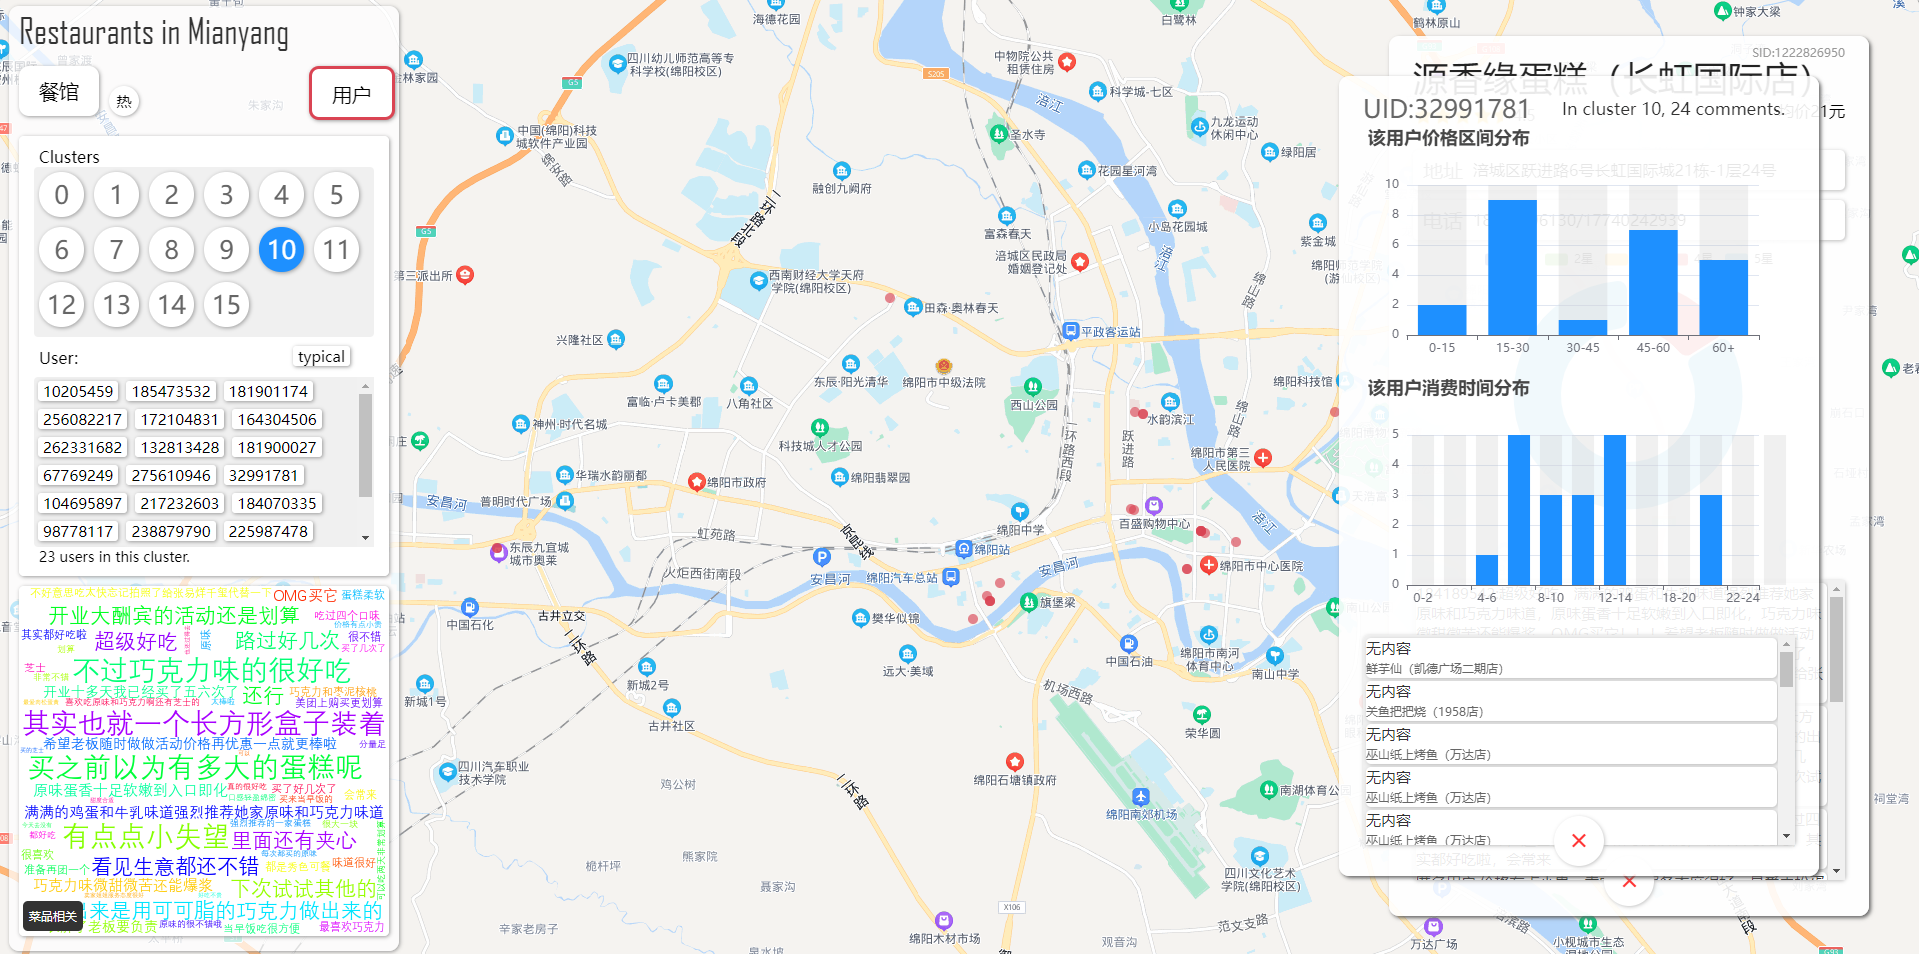
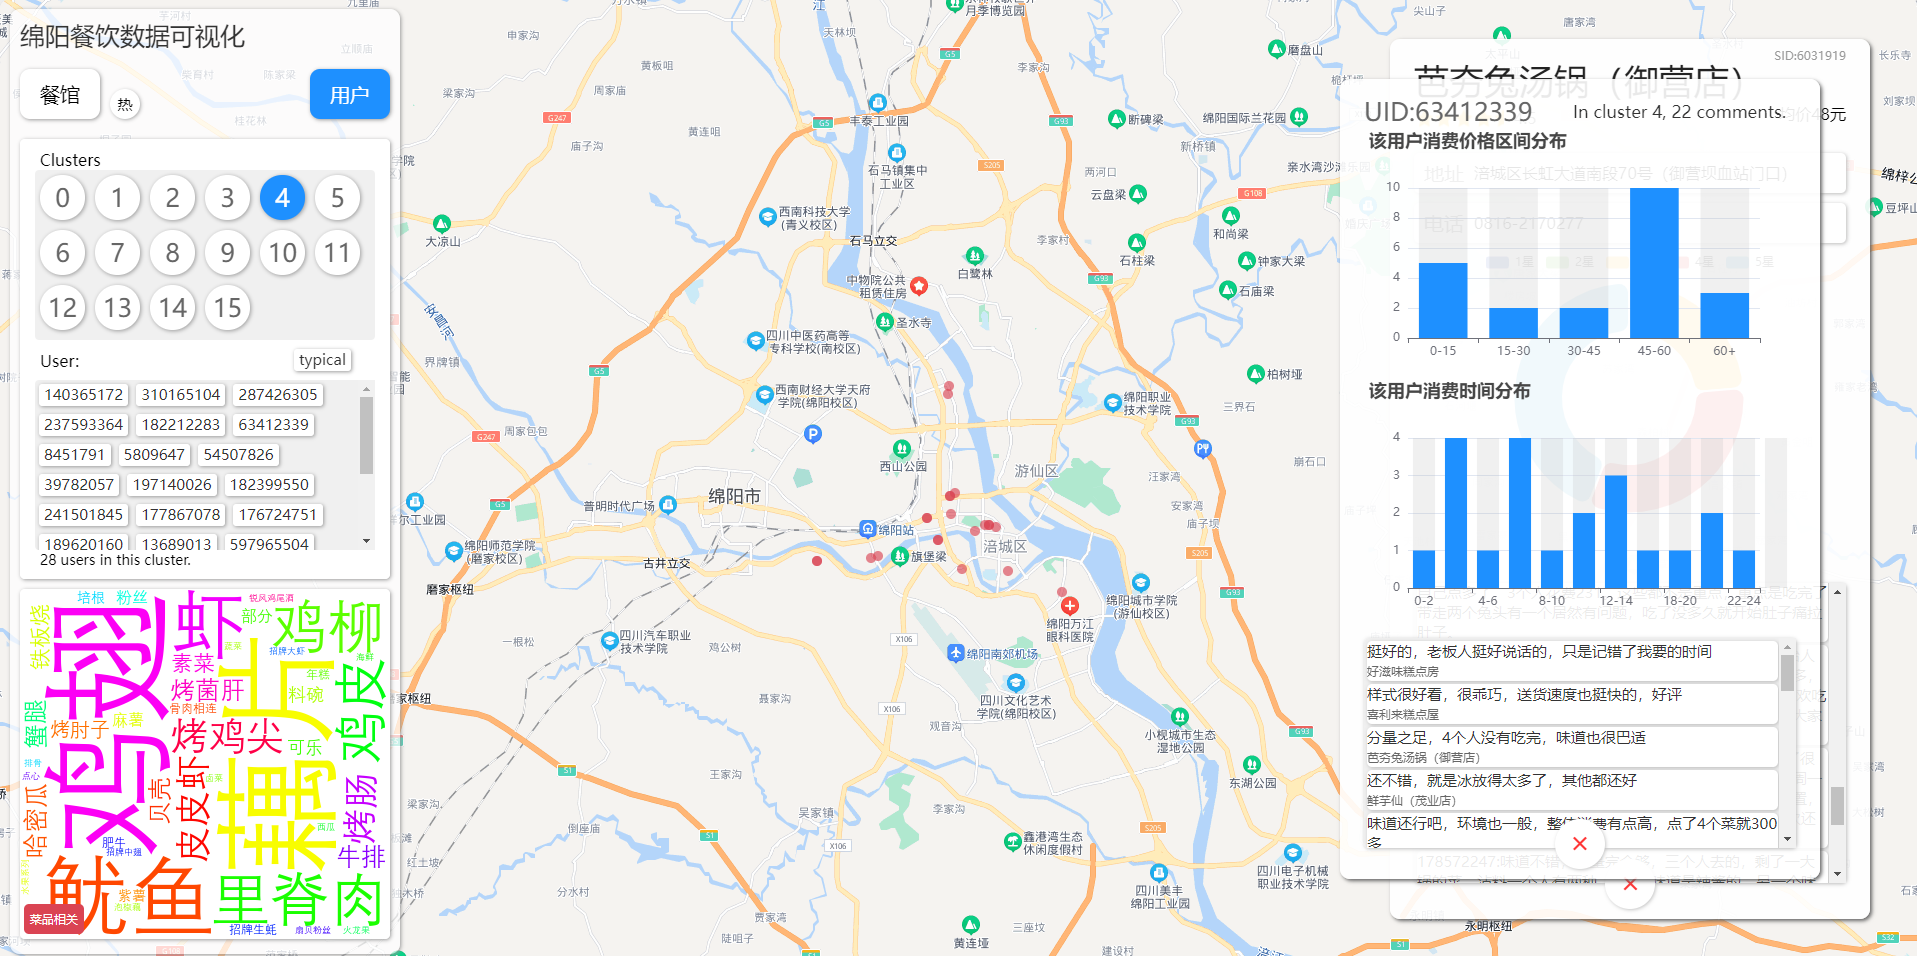
Commit.

diff --git a/src/templates/index.html b/src/templates/index.html
@@ -85,7 +85,7 @@
 		<div class="detail_view_border" id="shop_detail_view_border" onclick="bring_view_2top('shop')">
 			<div id="detail_view">
 				<div id="text_title">ShopTitle</div>
-				<div id="text_sub">ID:000</div>
+				<div id="text_sub">ID:0</div>
 				<div id="stars_box">
 					<div id="stars_cutter">
 						<img id="stars" src="/static/stars.png" />
@@ -103,9 +103,9 @@
 				</div>
 				<div id="star_pie"></div>
 				<div id="comments_view" class="info_box">
-					<div class="info_box comment">dfhfdghsdfxh</div>
-					<div class="info_box comment">fghdfgjhfghdfxgh</div>
-					<div class="info_box comment">fghdfghdfgh</div>
+					<div class="info_box comment">测试1</div>
+					<div class="info_box comment">测试2</div>
+					<div class="info_box comment">测试3</div>
 				</div>
 			</div>
 			<div class="dv_close_btn" onclick="close_shop_detail()">×</div>
@@ -113,13 +113,13 @@
 		<div class="detail_view_border" id="user_detail_view_border" onclick="bring_view_2top('user')">
 			<div id="u_detail_view">
 				<div id="u_text_title">ID:12345676</div>
-				<div id="u_subtxt" style="position: absolute;font-size: 17px;color: #333333;right:10px;top: 5px;">In cluster 1, 3333 comments. </div>
+				<div id="u_subtxt" style="position: absolute;font-size: 17px;color: #333333;right:10px;top: 5px;">In cluster 未知, 0 comments. </div>
 				<div id="price_dist"></div>
 				<div id="time_dist"></div>
 				<div id="u_comments_view" class="info_box">
-					<div class="info_box comment">dfhfdghsdfxh</div>
-					<div class="info_box comment">fghdfgjhfghdfxgh</div>
-					<div class="info_box comment">fghdfghdfgh</div>
+					<div class="info_box comment">测试1</div>
+					<div class="info_box comment">测试2</div>
+					<div class="info_box comment">测试3</div>
 				</div>
 				
 			</div>

diff --git a/src/static/front.css b/src/static/front.css
@@ -45,11 +45,8 @@ body {
 }
 
 .select_selected {
-	border-width: 2x;
-	height: 48px;
-	width: 97x;
-	border-color: #da4453;
-	border-style: solid;
+	background-color: dodgerblue;
+	color: white;
 }
 
 #select_shops_analysis {
@@ -436,8 +433,9 @@ body {
 	text-align: center;
 	margin: 4px;
 	width: auto;
-	height: 20px;
+	height: 22px;
 	background-color: white;
+	color: #333;
 	border-radius: 3px;
 	box-shadow: #999 1px 1px 4px;
 }

diff --git a/src/static/front_exe.js b/src/static/front_exe.js
@@ -134,7 +134,7 @@ var barChartP = echarts.init(barChartDomP);
 var barOptionP;
 barOptionP = {
 	title: {
-		text: "该用户价格区间分布"
+		text: "该用户消费价格区间分布"
 	},
 	xAxis: {
 		type: 'category',
